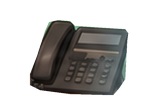
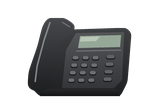
style(art): new drawn telephone covering the painted one
Claude-Session: https://claude.ai/code/session_018qtt7uTeVSGsnvQanUjafP

Changed region(s): [[0.16, 0.1622, 0.88, 0.8919]]

diff --git a/tools/draw_props.py b/tools/draw_props.py
@@ -20,11 +20,6 @@ FONT_BOLD = "/usr/share/fonts/opentype/inter/Inter-Bold.otf"
 FONT_BLACK = "/usr/share/fonts/opentype/inter/InterDisplay-Bold.otf"
 ## Where the telephone is in the apartment's painting (pixels of apartment_room_bath.png).
 TELEPHONE_BOX = (1293, 503, 1443, 614)
-## The phone's edge inside that box, handset on the left, traced around the painting.
-TELEPHONE_EDGE = [
-    (49, 22), (58, 20), (70, 21), (75, 26), (79, 26), (125, 29), (128, 33), (127, 41), (126, 60),
-    (125, 79), (119, 88), (113, 95), (70, 94), (40, 90), (30, 85), (30, 74), (37, 56), (45, 31),
-]
 
 
 def font(path: str, size: int) -> ImageFont.FreeTypeFont:
@@ -264,22 +259,72 @@ def draw_card_on_floor() -> None:
     final.save(PROPS / "food_delivery_card_floor.png")
 
 
-def cut_out_telephone() -> None:
-    """Cuts the telephone out of the apartment's own painting, so it matches it exactly and can sit
-    on top of the painted one with an outline. The phone's edge is traced by hand (in pixels of the
-    cut-out box), drawn four times larger and shrunk again so the edge is smooth."""
-    background = Image.open(ROOT / "assets" / "backgrounds" / "apartment_room_bath.png").convert("RGB")
-    crop = background.crop(TELEPHONE_BOX).convert("RGBA")
-    big = 4
-    mask = Image.new("L", (crop.width * big, crop.height * big), 0)
-    ImageDraw.Draw(mask).polygon([(x * big, y * big) for x, y in TELEPHONE_EDGE], fill=255)
-    mask = mask.resize(crop.size, Image.LANCZOS)
-    crop.putalpha(mask)
-    crop.save(PROPS / "telephone.png")
+def gradient_shape(size, points, top, bottom, rounding: float = 0.0) -> Image.Image:
+    """A filled polygon shaded from `top` to `bottom` colour, as a see-through layer. `rounding`
+    softens its corners, as moulded plastic has no sharp ones."""
+    w, h = size
+    ys = [y for _, y in points]
+    shade = Image.new("RGBA", size)
+    sd = ImageDraw.Draw(shade)
+    y0, y1 = min(ys), max(ys)
+    for y in range(int(y0), int(y1) + 1):
+        t = (y - y0) / max(y1 - y0, 1)
+        sd.line([(0, y), (w, y)], fill=tuple(int(a + (b - a) * t) for a, b in zip(top, bottom)))
+    mask = Image.new("L", size, 0)
+    ImageDraw.Draw(mask).polygon(points, fill=255)
+    if rounding > 0.0:
+        mask = mask.filter(ImageFilter.GaussianBlur(rounding)).point(lambda v: 255 if v >= 110 else 0)
+    layer = Image.new("RGBA", size, (0, 0, 0, 0))
+    layer.paste(shade, (0, 0), mask)
+    return layer
+
+
+def draw_telephone() -> None:
+    """A new desk telephone, drawn to sit exactly over the one painted on the nightstand and hide
+    it: the same size, the same three-quarter angle, the handset resting on its left. Coordinates
+    are pixels of the painted phone's box, drawn eight times larger and shrunk for smooth edges."""
+    k = 8
+    box_w, box_h = TELEPHONE_BOX[2] - TELEPHONE_BOX[0], TELEPHONE_BOX[3] - TELEPHONE_BOX[1]
+    size = (box_w * k, box_h * k)
+    P = lambda pts: [(x * k, y * k) for x, y in pts]
+    phone = Image.new("RGBA", size, (0, 0, 0, 0))
+    # The base: a dark shell whose sloping top faces the viewer.
+    phone.alpha_composite(gradient_shape(size, P([(66, 30), (126, 28), (131, 33), (127, 82), (120, 96),
+        (40, 96), (32, 88)]), (62, 64, 66), (30, 31, 33), 2 * k))
+    # The sloping face with the keys, a little lighter.
+    phone.alpha_composite(gradient_shape(size, P([(76, 33), (124, 32), (122, 80), (114, 88), (62, 88),
+        (66, 50)]), (84, 86, 88), (52, 54, 57)))
+    # The front lip where the base meets the table.
+    phone.alpha_composite(gradient_shape(size, P([(40, 89), (116, 89), (120, 96), (40, 96)]),
+        (40, 41, 43), (20, 20, 22)))
+    d = ImageDraw.Draw(phone)
+    # The screen, pale green-grey with a glint.
+    d.polygon(P([(80, 36), (121, 35), (120, 47), (78, 48)]), fill=(150, 168, 152))
+    d.polygon(P([(81, 37), (100, 36.5), (96, 41), (80, 41.5)]), fill=(186, 200, 184))
+    d.line(P([(76, 51), (121, 50)]), fill=(120, 122, 124), width=k)
+    # The keys: three columns of numbers and a column of function keys.
+    for row in range(4):
+        for col in range(3):
+            x = 72 + col * 10 - row * 1.4
+            y = 56 + row * 7.5
+            d.rounded_rectangle(P([(x, y), (x + 7, y + 4.5)]), radius=2 * k, fill=(28, 29, 31))
+            d.rounded_rectangle(P([(x + 0.5, y), (x + 6.5, y + 3.3)]), radius=2 * k, fill=(108, 110, 113))
+        x = 106 - row * 1.0
+        y = 55 + row * 7.5
+        d.rounded_rectangle(P([(x, y), (x + 9, y + 4.5)]), radius=2 * k, fill=(28, 29, 31))
+        d.rounded_rectangle(P([(x + 0.5, y), (x + 8.5, y + 3.3)]), radius=2 * k, fill=(96, 98, 101))
+    # The handset, resting in its cradle on the left, with a soft shine down its back.
+    handset = gradient_shape(size, P([(48, 18), (64, 18), (76, 26), (71, 34), (60, 40), (52, 74),
+        (52, 86), (40, 92), (28, 88), (29, 72), (38, 46), (43, 26)]), (70, 72, 75), (30, 31, 33), 3 * k)
+    phone.alpha_composite(handset)
+    d.line(P([(50, 22), (44, 40), (37, 66), (35, 82)]), fill=(132, 134, 138), width=int(1.6 * k))
+    d.line(P([(62, 22), (70, 27)]), fill=(118, 120, 124), width=k)
+    phone = phone.resize((box_w, box_h), Image.LANCZOS)
+    phone.save(PROPS / "telephone.png")
 
 
 if __name__ == "__main__":
-    cut_out_telephone()
+    draw_telephone()
     draw_key()
     draw_poster()
     draw_card_on_floor()
